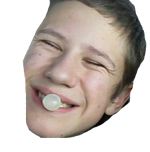
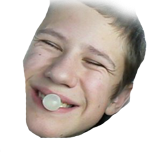
test

Changed region(s): [[0.32, 0.0, 0.9867, 0.3947], [0.7733, 0.5789, 0.88, 0.7368], [0.7467, 0.7368, 0.7733, 0.7632]]

diff --git a/game.js b/game.js
@@ -1,6 +1,6 @@
  var config =   {
         type: Phaser.AUTO,
-        width: 800,
+        width: 400,
         height: 400,
         physics:    {
             default: 'arcade',
@@ -23,6 +23,8 @@
         this.load.image('maja', 'img/maja.png');
         this.load.image('carl', 'img/carl.png');
         this.load.image('red', 'img/red.png');
+        this.load.image('purp', 'img/purp.png');
+        this.load.image('green', 'img/green.png');
         this.load.image('daniel', 'img/daniel.png');
 
     }
@@ -34,24 +36,25 @@
         
     function create ()
     {
-        this.add.image(500, 600, 'sky');
+        this.add.image(200, 600, 'sky');
 
         var particles = this.add.particles('red');
-        var particles2 = this.add.particles('red');
+        var particles2 = this.add.particles('purp');
+        var particles3 = this.add.particles('green');
 
         var emitter = particles.createEmitter({
-            speed: 100,
-            scale: { start: 1, end: -1 },
+            speed: 50,
+            scale: { start: 1, end: -0.5 },
             blendMode: 'ADD'
         });
-        var emitter2 = particles.createEmitter({
-            speed: 500,
-            scale: { start: 0, end: 2 },
+        var emitter2 = particles2.createEmitter({
+            speed: 50,
+            scale: { start: 0, end: 0.5 },
             blendMode: 'ADD'
         });
-        var emitter3 = particles.createEmitter({
-            speed: 500,
-            scale: { start: 0, end: 2 },
+        var emitter3 = particles3.createEmitter({
+            speed: 50,
+            scale: { start: 0, end: 0.5 },
             blendMode: 'ADD'
         });
 
